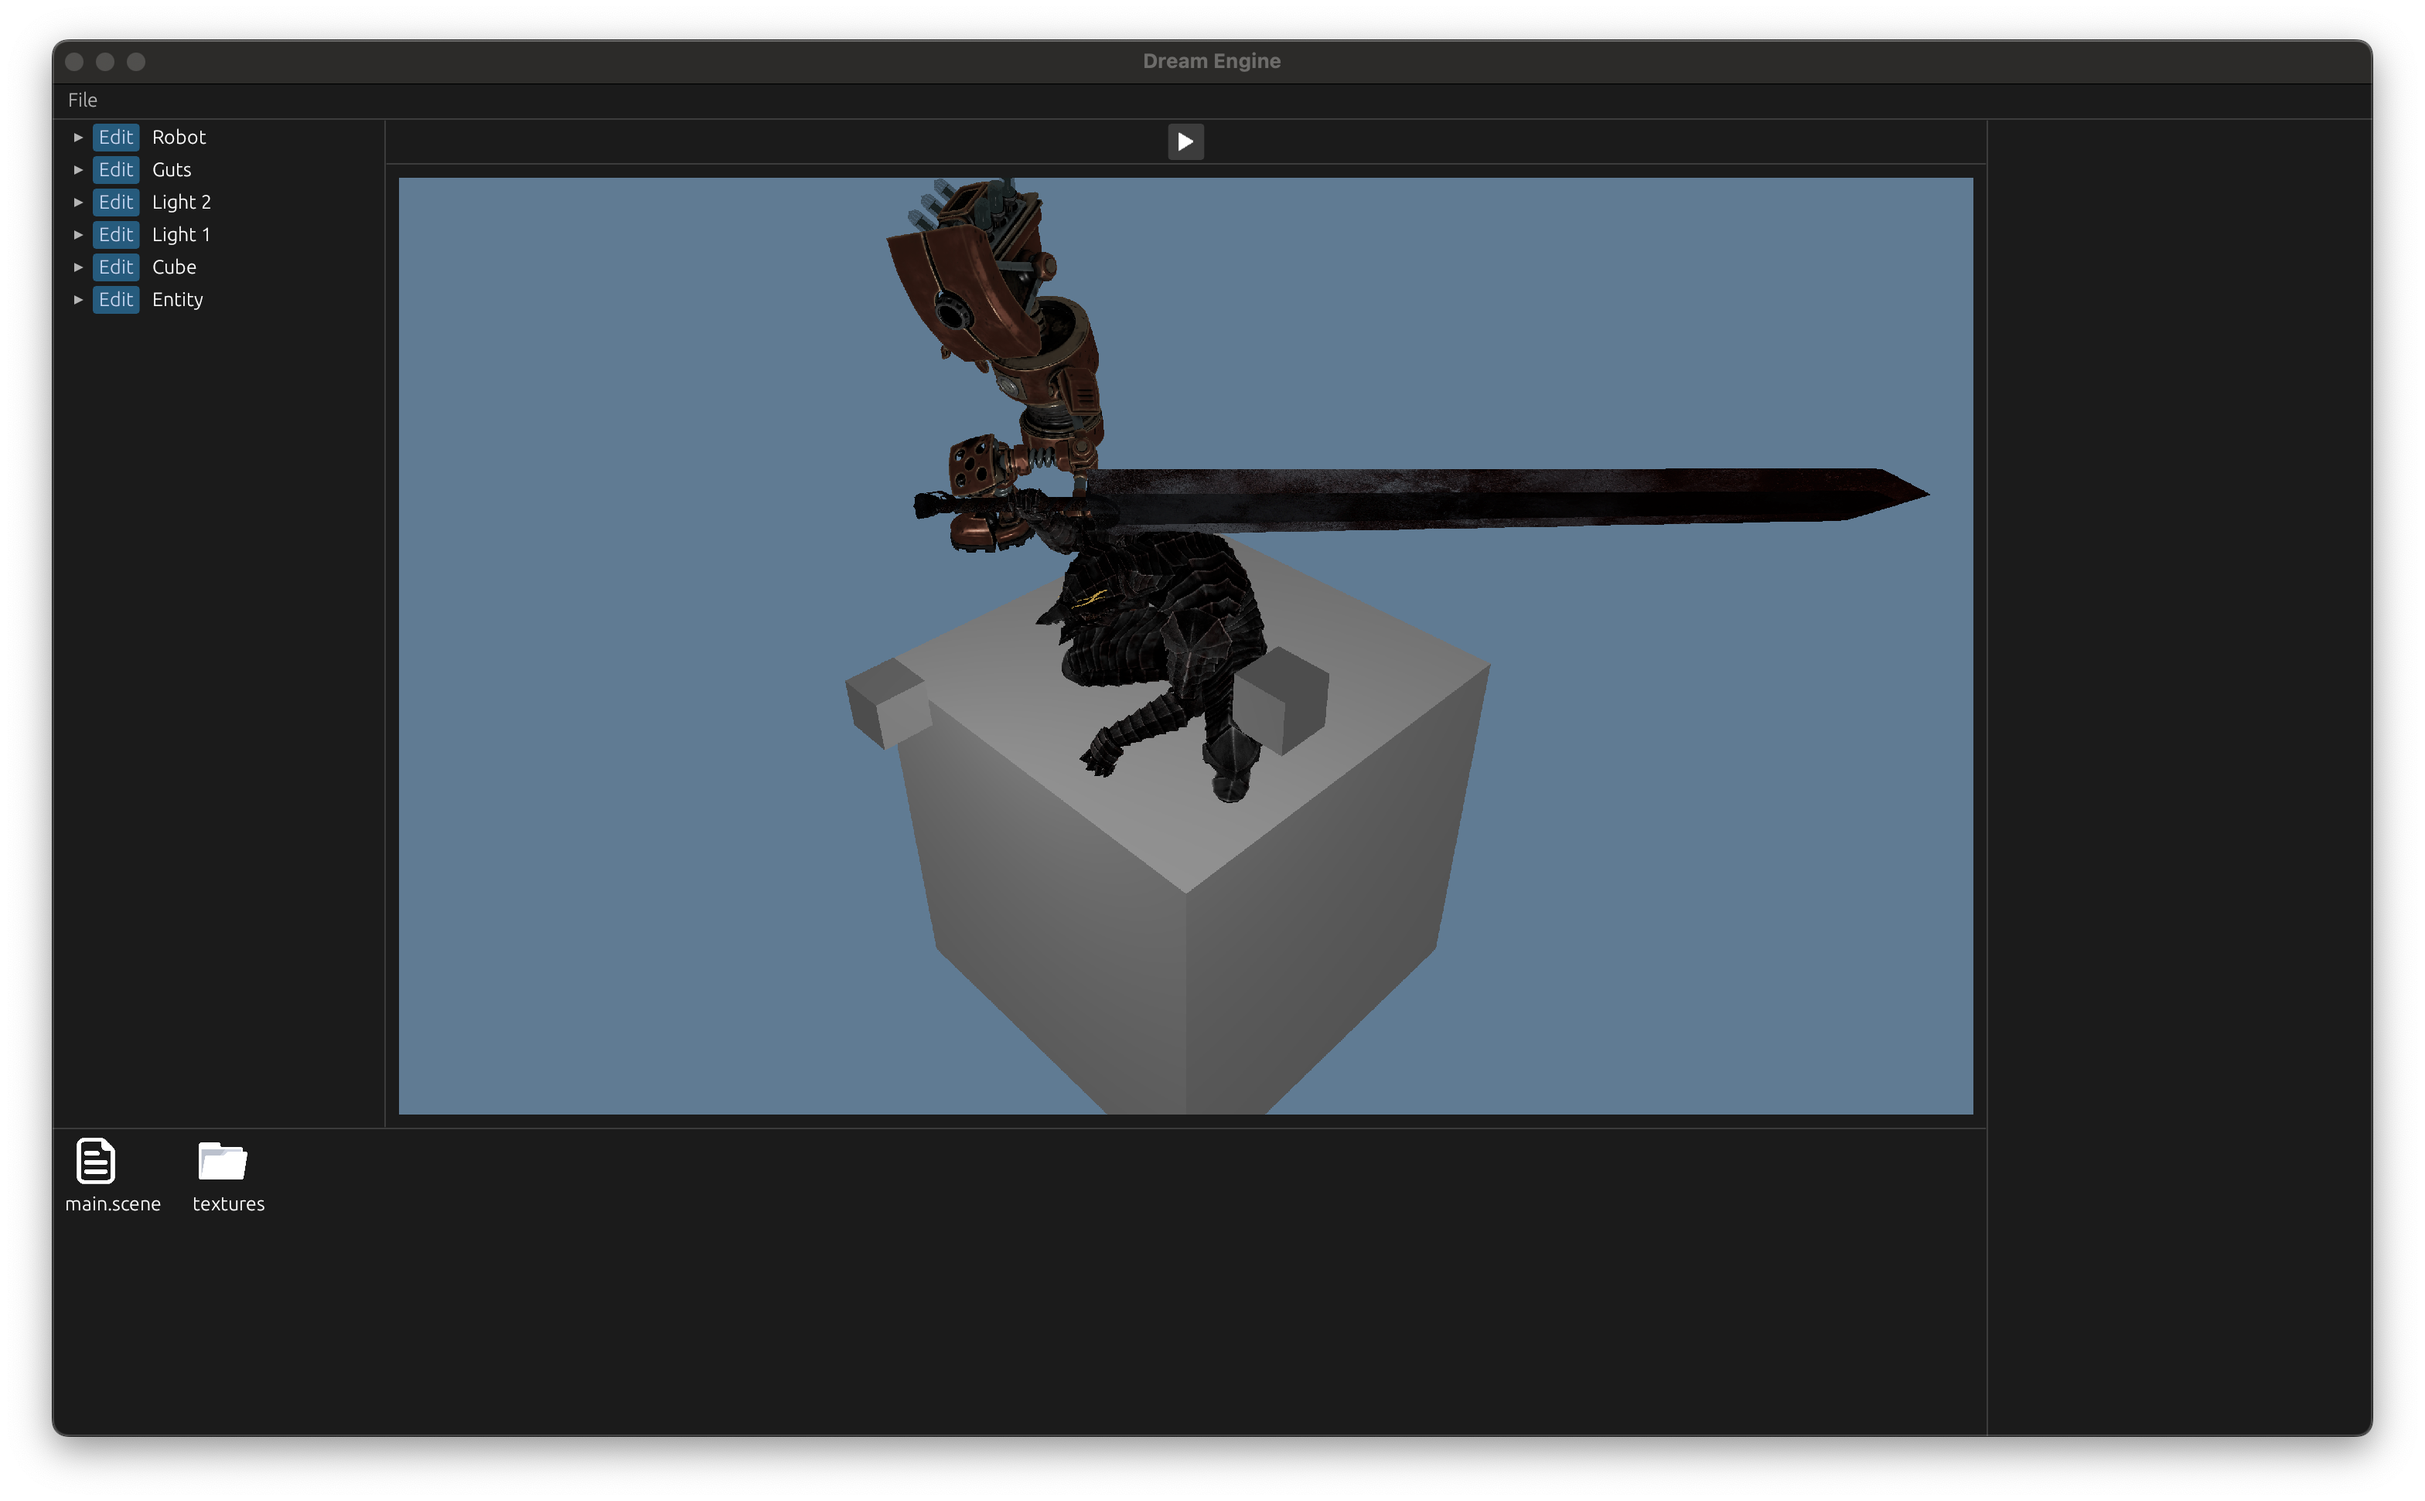
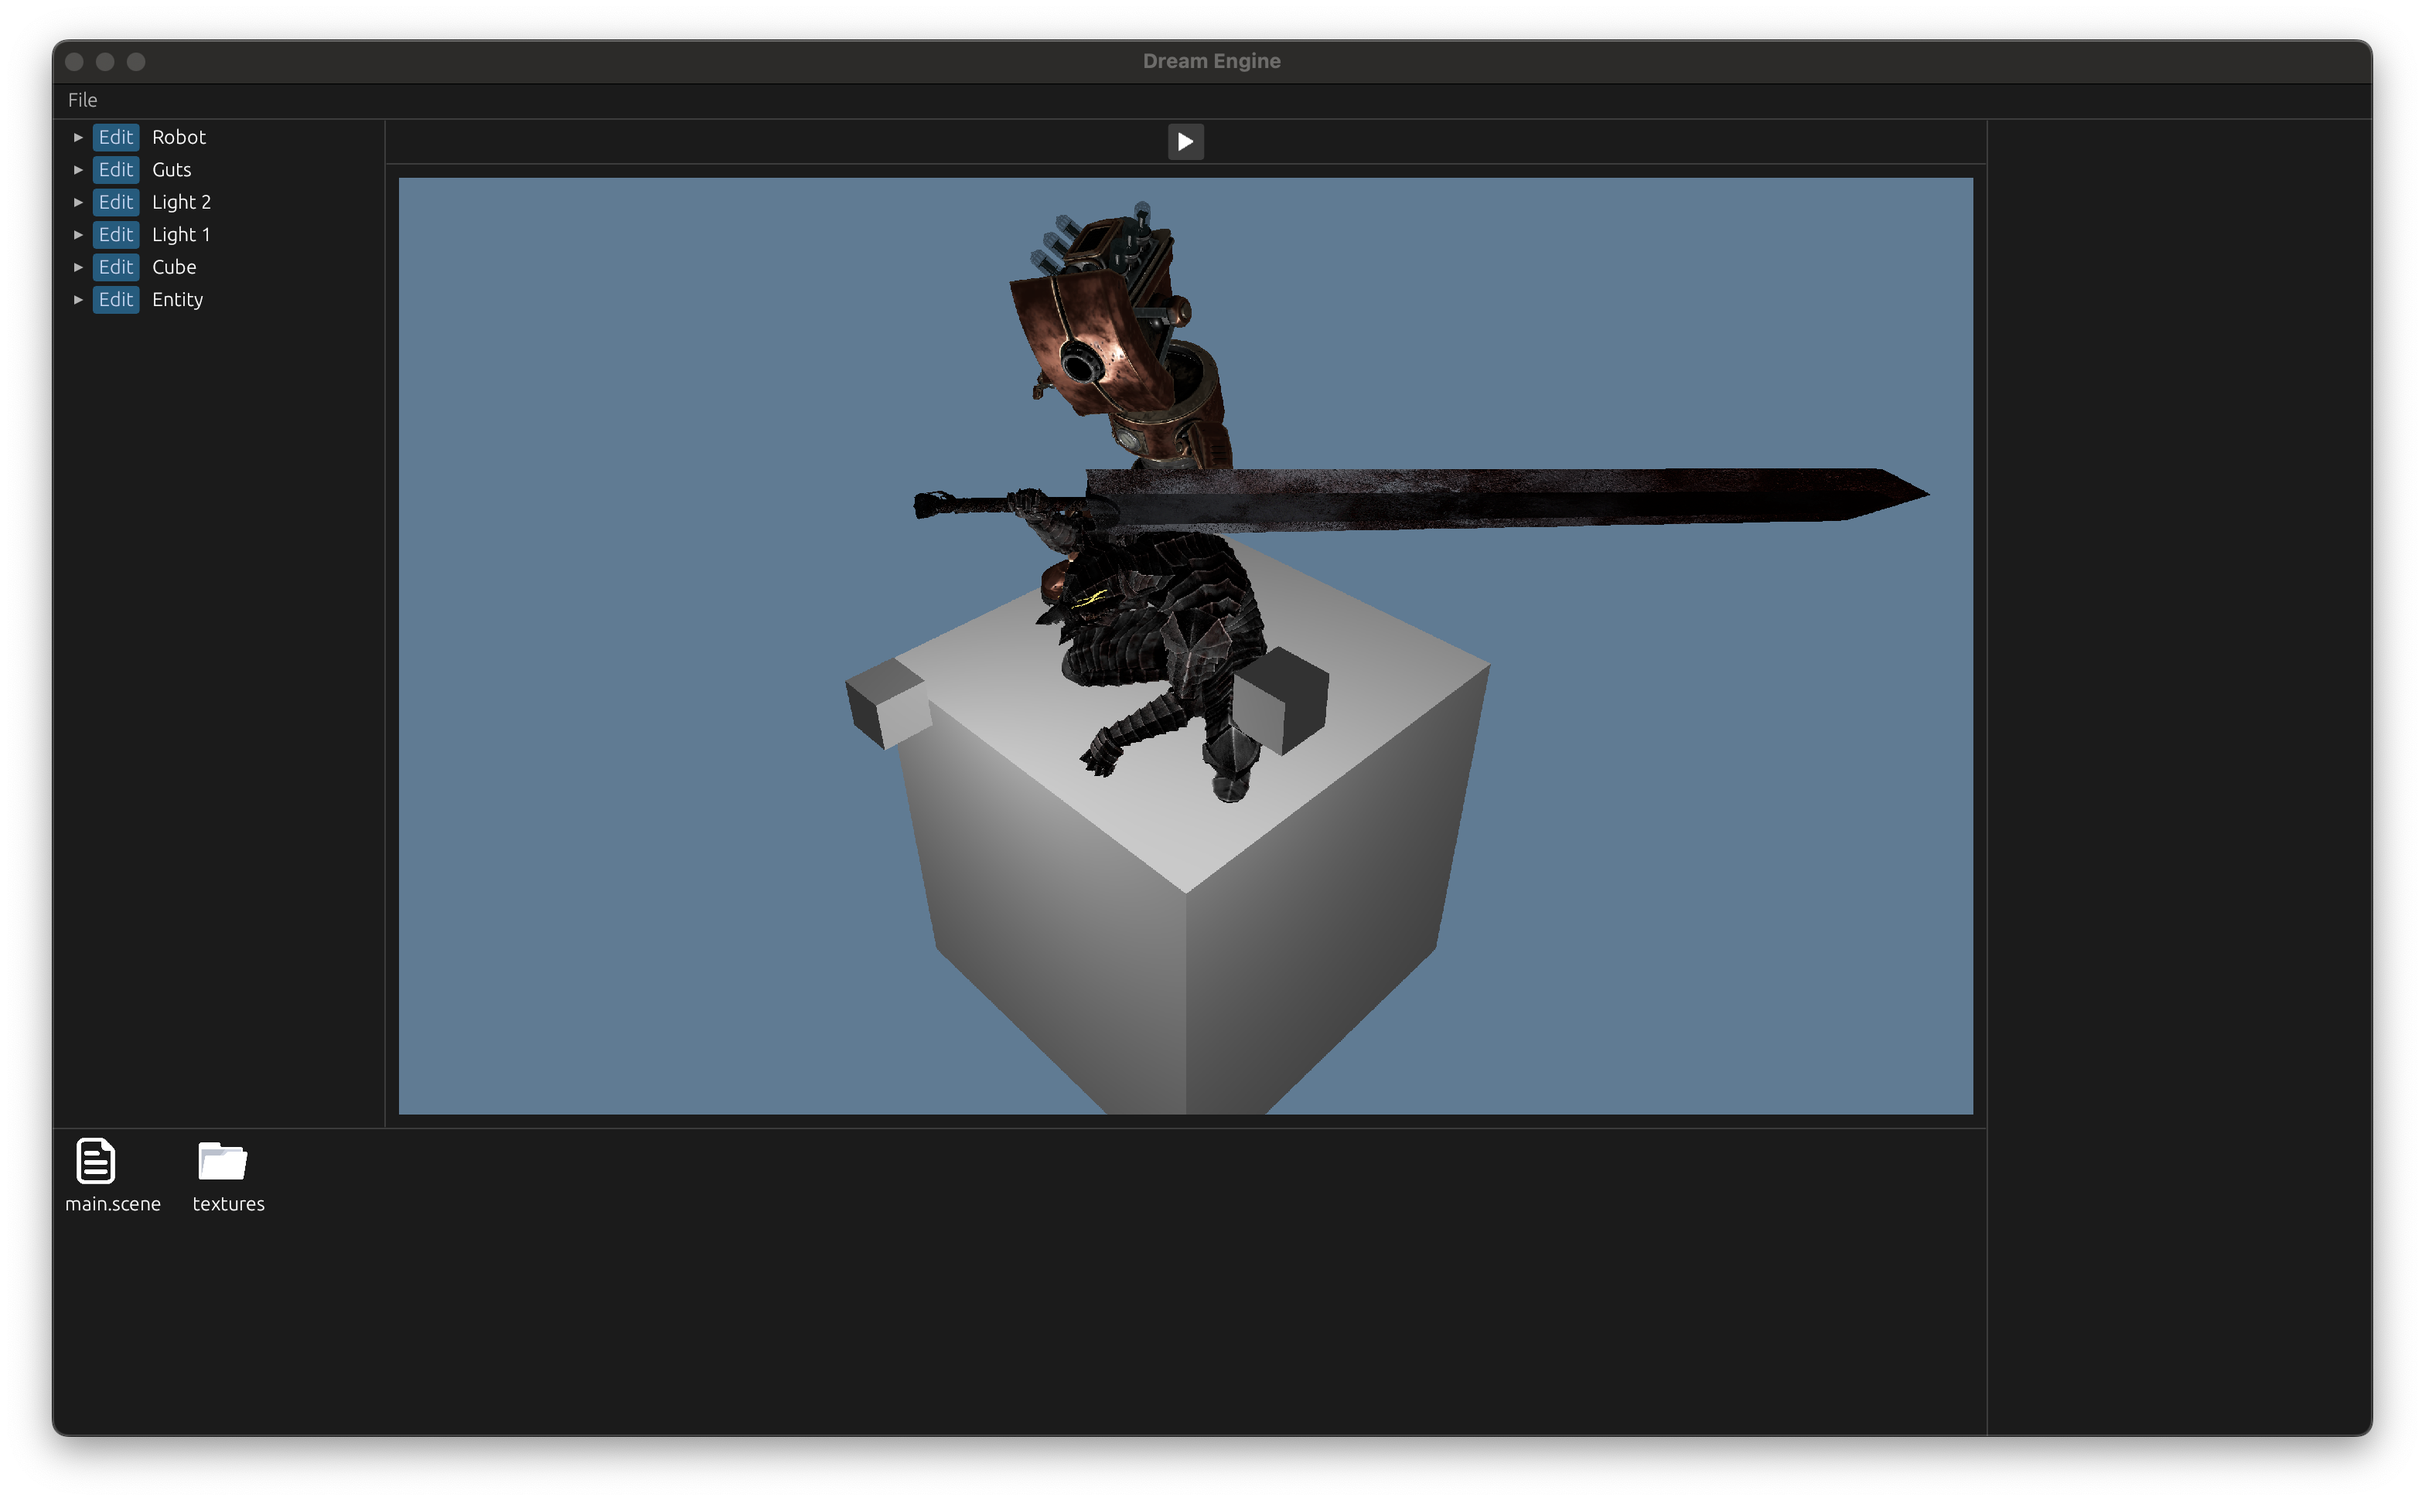
Fix exposure and gamma correct
Took 11 minutes

Changed region(s): [[0.3438, 0.1236, 0.625, 0.6179]]

diff --git a/crates/dream-app/src/app.rs b/crates/dream-app/src/app.rs
@@ -80,7 +80,7 @@ impl Default for App {
                 Scene::create_entity(Arc::downgrade(&scene), Some("Light 1".into()), None, None)
                     .expect("Unable to create cube entity");
             Entity::from_handle(cube_entity_handle, Arc::downgrade(&scene)).add_component(
-                Light::new(LightType::POINT, Vector3::new(1.0, 1.0, 1.0), 20.0),
+                Light::new(LightType::POINT, Vector3::new(1.0, 1.0, 1.0), 4.0),
             );
             // add mesh renderer component
             MeshRenderer::add_to_entity(
@@ -104,7 +104,7 @@ impl Default for App {
                 Scene::create_entity(Arc::downgrade(&scene), Some("Light 2".into()), None, None)
                     .expect("Unable to create cube entity");
             Entity::from_handle(cube_entity_handle, Arc::downgrade(&scene)).add_component(
-                Light::new(LightType::POINT, Vector3::new(1.0, 1.0, 1.0), 20.0),
+                Light::new(LightType::POINT, Vector3::new(1.0, 1.0, 1.0), 4.0),
             );
             // add mesh renderer component
             MeshRenderer::add_to_entity(
